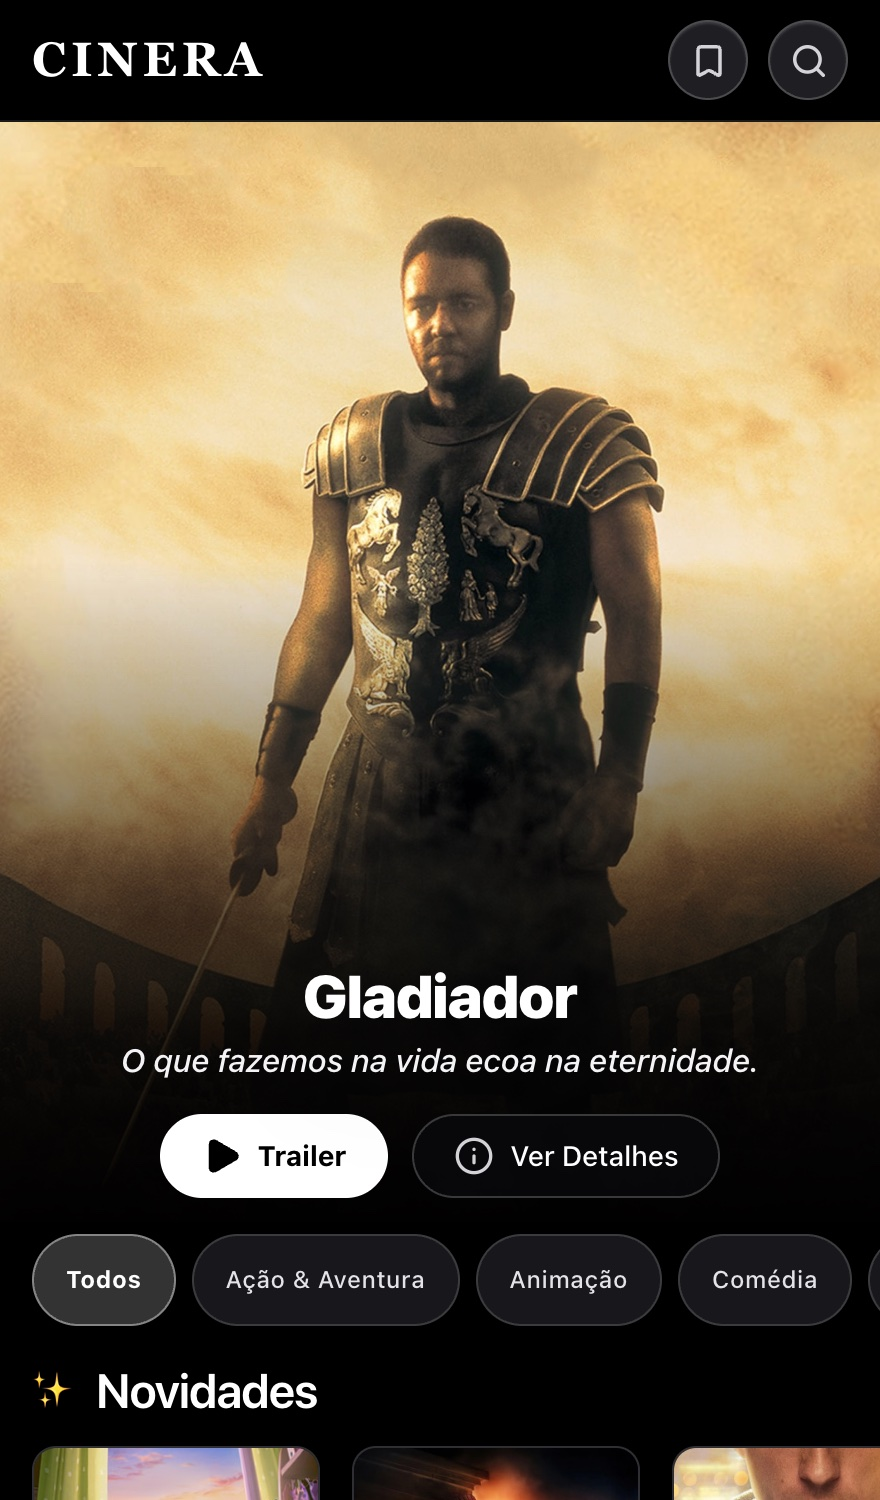
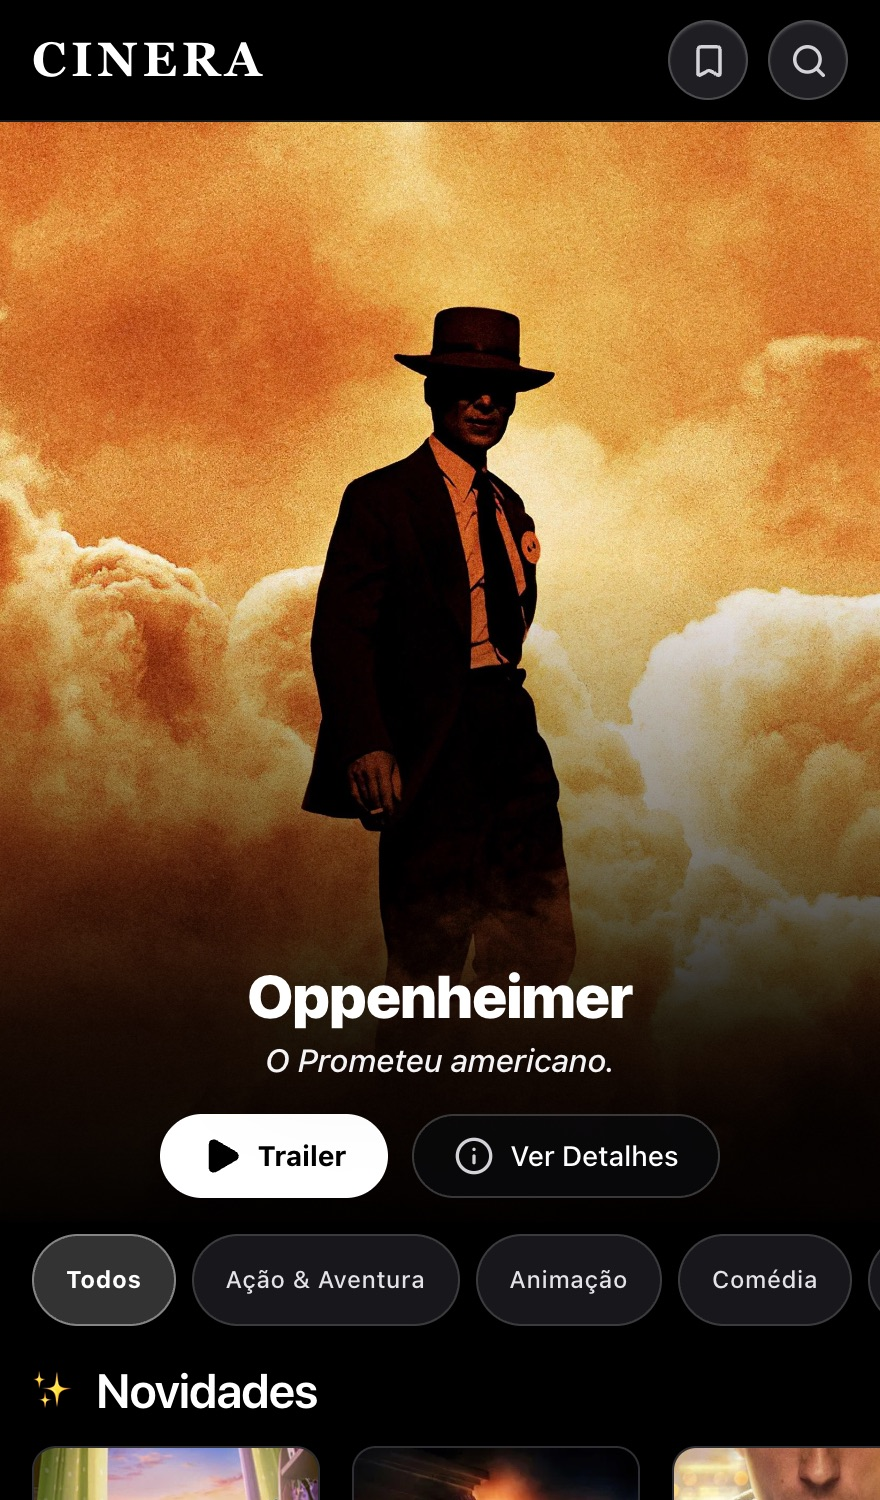
docs: foto principal do README com Oppenheimer no lugar do Gladiador
Oppenheimer (7 Oscars, incluindo Melhor Filme, IMDb 8,2, mais de 1 milhão de votos): a silhueta de chapéu contra as nuvens de fogo, com o título livre embaixo à esquerda e bom corte no celular. Os dois prints do destaque (desktop e celular) foram refeitos com ele como primeiro slide, só na captura: o catálogo publicado não foi alterado. Textos alternativos do README atualizados.

diff --git a/README.md b/README.md
@@ -19,7 +19,7 @@
 
 <br />
 
-<img src="docs/screenshots/desktop.jpg" alt="CINERA no desktop: destaque em tela cheia com Gladiador e filtros por categoria" width="73%" />&nbsp;&nbsp;<img src="docs/screenshots/mobile.jpg" alt="CINERA no celular, com Gladiador em destaque" width="22%" />
+<img src="docs/screenshots/desktop.jpg" alt="CINERA no desktop: destaque em tela cheia com Oppenheimer e filtros por categoria" width="73%" />&nbsp;&nbsp;<img src="docs/screenshots/mobile.jpg" alt="CINERA no celular, com Oppenheimer em destaque" width="22%" />
 
 </div>
 
